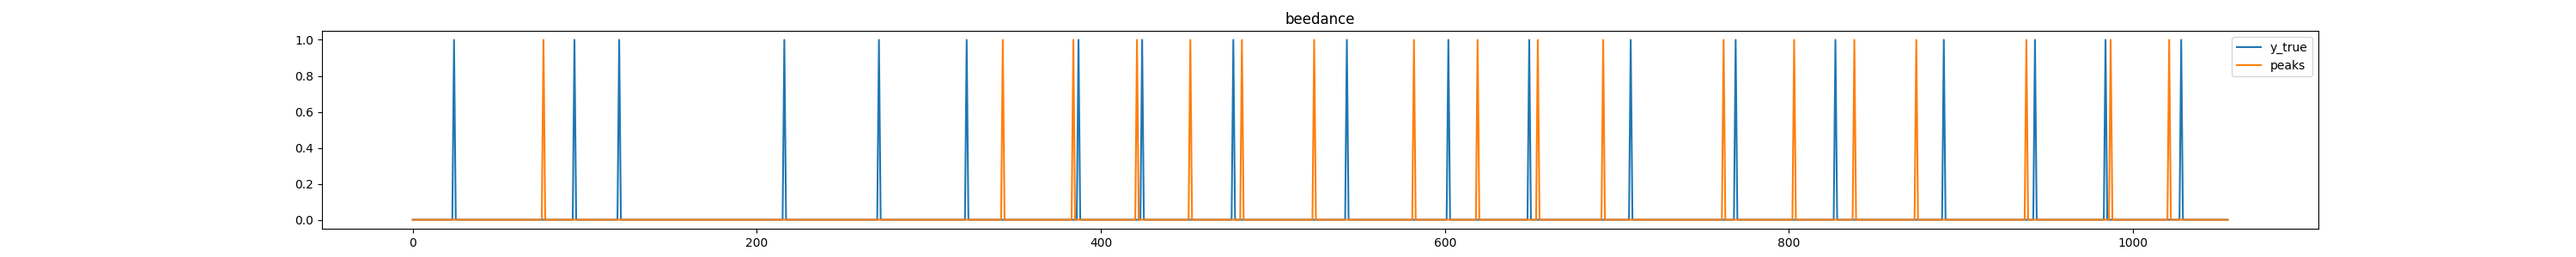
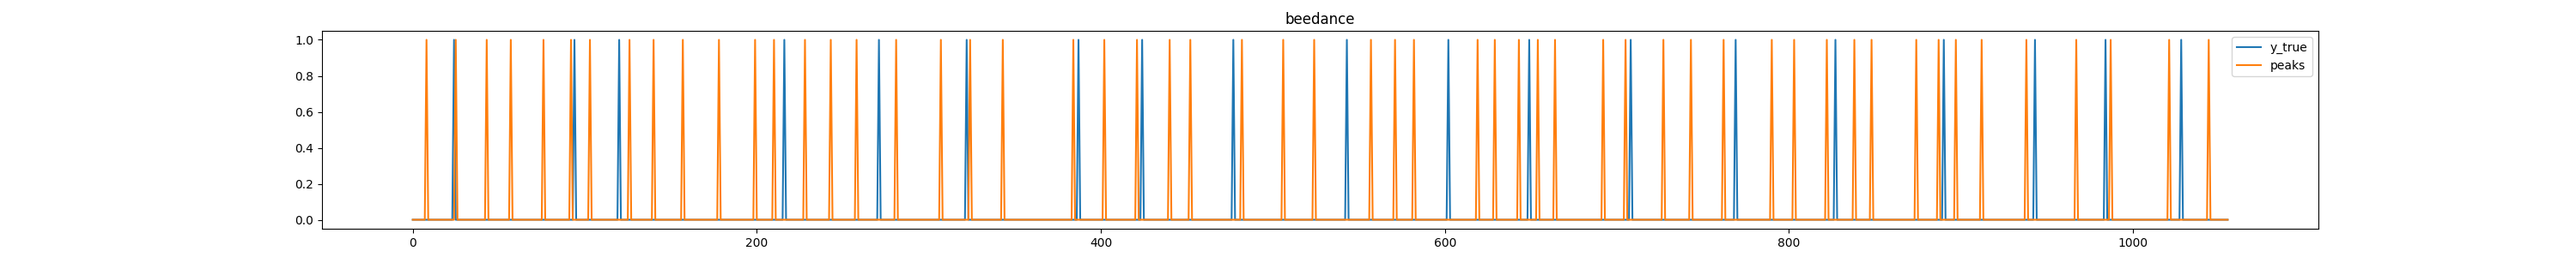
Updating hyp tuning

diff --git a/TiVaCPD/hyp_tune.py b/TiVaCPD/hyp_tune.py
@@ -126,9 +126,9 @@ def main():
         best_params = [.2, 10, 0.4, 0.4, 'mexh','smooth']
         comb = [list(np.arange(3)),list(np.arange(3)),list(np.arange(3)),list(np.arange(3)), list(np.arange(4)), list(np.arange(2))]
     else:
-        hyp_params = {'threshold':[.2,.02,.002],'slice_size':[14, 10, 5],'alpha_':[5, 1, 0.4],'beta':[12, 6, 0.4]}
-        best_params = [.2, 10, 0.4, 0.4]
-        comb = [list(np.arange(3)),list(np.arange(3)),list(np.arange(3)),list(np.arange(3))]
+        hyp_params = {'threshold':[.2,.02,.002],'slice_size':[14, 10, 5],'alpha_':[5, 1, 0.4],'beta':[12, 6, 0.4], 'score_threshold':[0.1,0.05,0.01]}
+        best_params = [.2, 10, 0.4, 0.4, 0.05]
+        comb = [list(np.arange(3)),list(np.arange(3)),list(np.arange(3)),list(np.arange(3)), list(np.arange(3))]
     
     best_dev_f1_score = 0
 
@@ -152,6 +152,8 @@ def main():
         slice_size = list(hyp_params['slice_size'])[ind[1]]
         alpha_ = list(hyp_params['alpha_'])[ind[2]]
         beta = list(hyp_params['beta'])[ind[3]]
+        score_threshold = list(hyp_params['score_threshold'])[ind[4]]
+
         print(threshold, slice_size, alpha_, beta)
         if(args.wavelet):
             wave_shape = list(hyp_params['wave_shape'])[ind[4]]
@@ -208,7 +210,7 @@ def main():
 
             #final_score = combined_score_savgol
         
-            metrics = ComputeMetrics(y_true, final_score, args.margin)
+            metrics = ComputeMetrics(y_true, final_score, args.margin, threshold=score_threshold)
             f1_score = np.round(metrics.f1,2)
             print('f1 score: ', f1_score)
             f1_scores.append(f1_score)

diff --git a/TiVaCPD/performance.py b/TiVaCPD/performance.py
@@ -171,7 +171,8 @@ class ComputeMetrics():
         if not np.all((score==0)):
             
             score_peaks = np.zeros(shape = score.shape)
-            peaks = find_peaks_adaptive(score)
+            #peaks = find_peaks_adaptive(score)
+            peaks = find_peaks(score, height=self.threshold, distance=self.moe * 2)[0]
 
             score_peaks[peaks] = 1
             
